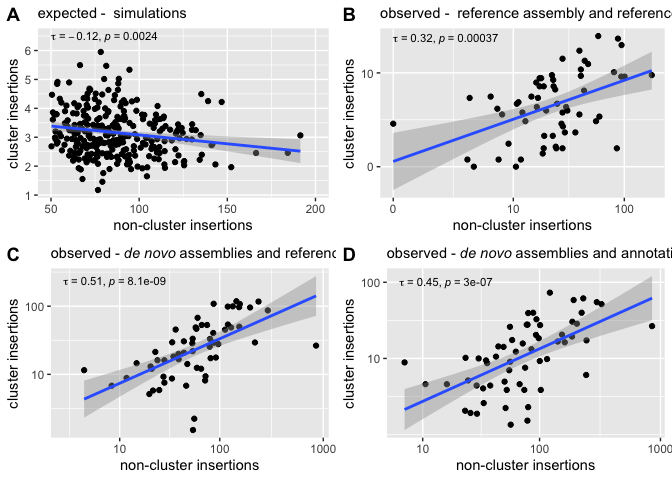
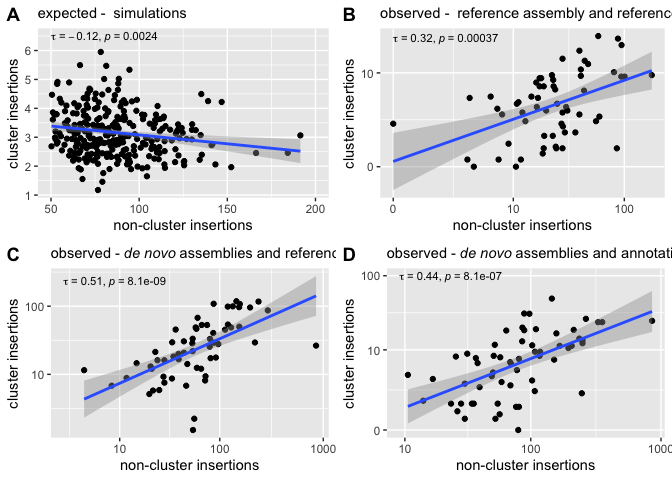
updated proTRAC annotations. Merging of neighboring clusters only takes into account original lengths but not new length that included the gaps inbetween

diff --git a/helper-scripts/merge_proTRAC_clusters.py b/helper-scripts/merge_proTRAC_clusters.py
@@ -21,7 +21,7 @@ parser.add_argument('--bed', type=argparse.FileType('r'), default=None,dest="bed
 parser.add_argument('--polyn', type=argparse.FileType('r'), default=None,dest="polyn", required=True, help="a polyN file from cusco")
 
 args=parser.parse_args()
-newcl=collections.defaultdict((lambda:collections.defaultdict(lambda:[int,str])))
+newcl=collections.defaultdict((lambda:collections.defaultdict(lambda:[int,str,int])))
 
 chromosomes=[]
 
@@ -33,26 +33,30 @@ for l in args.bed:
     start=int(m[1])
     end=int(m[2])
     cl=str(m[3])
+    olen=int(end-start)
     
     if chro not in chromosomes:
         newcl[chro][start][0]=end
         newcl[chro][start][1]=cl
-        
+        newcl[chro][start][2]=olen
+
         chromosomes.append(chro)
         
     else:
         for c,tmp in newcl.items():
             if c==chro:
                 last=max(tmp, key=tmp.get)
-                l1=tmp[last][0]-last
+                l1=int(tmp[last][2])
                 gap=start-tmp[last][0]
-                l2=end-start
-                if (l1+l2)>gap:
+                
+                if (l1+olen)>gap:
                     newcl[c][last][0]=end
+                    newcl[c][last][2]=int(l1+olen)
                     break
                 else:
                     newcl[chro][start][0]=end
                     newcl[chro][start][1]=cl
+                    newcl[chro][start][2]=olen
                     break
 
 gapcl=[]

diff --git a/helper-scripts/assembly_TE-abundance_3types.py b/helper-scripts/assembly_TE-abundance_3types.py
@@ -58,6 +58,7 @@ toitref=collections.defaultdict((lambda:collections.defaultdict(lambda:collectio
 reftopr=collections.defaultdict((lambda:collections.defaultdict(lambda:[str])))
 refabupr=collections.defaultdict((lambda:[0]))
 
+TEids=set()
 
 for k in args.rm:
     k=k.rstrip("\n").lstrip(" ")
@@ -90,7 +91,10 @@ for l in args.bed:
         if chro==c:
             for st,tmp2 in tmp.items():
                 for en,ch in tmp2.items():
+                    if ch[1] in TEids:
+                        continue
                     if (start <= int(st) <= end) or (start <= int(en) <= end):
+                        TEids.add(ch[1])
                         topr[cl][ch[1]][0]=ch[0]#first key: cl -for separate cluster outputs; "cluster" -for single
                         del rest[c][st][en]
                         del toitref[c][st][en]

diff --git a/rmd-scripts/main-histo.md b/rmd-scripts/main-histo.md
@@ -48,7 +48,7 @@ for i in *_cluster.bed;do n=${i%_cluster.bed};mkdir ${n};python /Users/filipwier
 ```
 
 ``` bash
-cd /Users/filipwierzbicki/Desktop/trap_model/analysis/abu/protrac/protrac_gapped_cluster_bed
+cd /Users/filipwierzbicki/Desktop/trap_model/analysis/abu/protrac/new-cluster_bed
 for i in *_cluster.bed;do n=${i%_cluster.bed};mkdir ${n};python /Users/filipwierzbicki/Desktop/trap_model/github/trapmodel/helper-scripts/assembly_TE-abundance_3types.py --clu $i --rm /Users/filipwierzbicki/Desktop/trap_model/analysis/abu/whole-genome/repeatmasker/${n}.fasta.out --output ${n}/ --sample ${n}_p0.05 --approach gapped_protrac --minlen 100 --maxdiv 10.0 ;done
 ```
 
@@ -386,11 +386,11 @@ popTE2<-ggplot(pt, aes(x=cluster, y=indsrel))+ geom_vline( xintercept =alq,col="
 
 ###proTRAC_p0.05 only
 
-t1<-read.table("/Users/filipwierzbicki/Desktop/trap_model/analysis/abu/protrac/protrac_gapped_cluster_bed/Canton-S_p0.05_gapped_protrac_summary.forR")
-t2<-read.table("/Users/filipwierzbicki/Desktop/trap_model/analysis/abu/protrac/protrac_gapped_cluster_bed/DGRP-732_p0.05_gapped_protrac_summary.forR")
-t3<-read.table("/Users/filipwierzbicki/Desktop/trap_model/analysis/abu/protrac/protrac_gapped_cluster_bed/Iso1_p0.05_gapped_protrac_summary.forR")
-t4<-read.table("/Users/filipwierzbicki/Desktop/trap_model/analysis/abu/protrac/protrac_gapped_cluster_bed/Oregon-R_p0.05_gapped_protrac_summary.forR")
-t5<-read.table("/Users/filipwierzbicki/Desktop/trap_model/analysis/abu/protrac/protrac_gapped_cluster_bed/Pi2_p0.05_gapped_protrac_summary.forR")
+t1<-read.table("/Users/filipwierzbicki/Desktop/trap_model/analysis/abu/protrac/new-cluster_bed/Canton-S_p0.05_gapped_protrac_summary.forR")
+t2<-read.table("/Users/filipwierzbicki/Desktop/trap_model/analysis/abu/protrac/new-cluster_bed/DGRP-732_p0.05_gapped_protrac_summary.forR")
+t3<-read.table("/Users/filipwierzbicki/Desktop/trap_model/analysis/abu/protrac/new-cluster_bed/Iso1_p0.05_gapped_protrac_summary.forR")
+t4<-read.table("/Users/filipwierzbicki/Desktop/trap_model/analysis/abu/protrac/new-cluster_bed/Oregon-R_p0.05_gapped_protrac_summary.forR")
+t5<-read.table("/Users/filipwierzbicki/Desktop/trap_model/analysis/abu/protrac/new-cluster_bed/Pi2_p0.05_gapped_protrac_summary.forR")
 
 t<-rbind(t1,t2,t3,t4,t5)
 
@@ -464,7 +464,7 @@ g<-ggarrange(simu, popTE2, real, proT,
 
     ## Warning: Removed 1 rows containing missing values (geom_bar).
 
-    ## Warning: Removed 30 rows containing missing values (position_stack).
+    ## Warning: Removed 13 rows containing missing values (position_stack).
 
     ## Warning: Removed 1 rows containing missing values (geom_bar).
 

diff --git a/rmd-scripts/main-cor.md b/rmd-scripts/main-cor.md
@@ -228,11 +228,11 @@ gC<-ggplot(cC,aes(x=noncluster,y=cluster))+geom_point()+stat_cor(cor.coef.name="
 
 ###proTRAC_p0.05 only 
 
-t1<-read.table("/Users/filipwierzbicki/Desktop/trap_model/analysis/abu/protrac/protrac_gapped_cluster_bed/Canton-S_p0.05_gapped_protrac_summary.forR")
-t2<-read.table("/Users/filipwierzbicki/Desktop/trap_model/analysis/abu/protrac/protrac_gapped_cluster_bed/DGRP-732_p0.05_gapped_protrac_summary.forR")
-t3<-read.table("/Users/filipwierzbicki/Desktop/trap_model/analysis/abu/protrac/protrac_gapped_cluster_bed/Iso1_p0.05_gapped_protrac_summary.forR")
-t4<-read.table("/Users/filipwierzbicki/Desktop/trap_model/analysis/abu/protrac/protrac_gapped_cluster_bed/Oregon-R_p0.05_gapped_protrac_summary.forR")
-t5<-read.table("/Users/filipwierzbicki/Desktop/trap_model/analysis/abu/protrac/protrac_gapped_cluster_bed/Pi2_p0.05_gapped_protrac_summary.forR")
+t1<-read.table("/Users/filipwierzbicki/Desktop/trap_model/analysis/abu/protrac/new-cluster_bed/Canton-S_p0.05_gapped_protrac_summary.forR")
+t2<-read.table("/Users/filipwierzbicki/Desktop/trap_model/analysis/abu/protrac/new-cluster_bed/DGRP-732_p0.05_gapped_protrac_summary.forR")
+t3<-read.table("/Users/filipwierzbicki/Desktop/trap_model/analysis/abu/protrac/new-cluster_bed/Iso1_p0.05_gapped_protrac_summary.forR")
+t4<-read.table("/Users/filipwierzbicki/Desktop/trap_model/analysis/abu/protrac/new-cluster_bed/Oregon-R_p0.05_gapped_protrac_summary.forR")
+t5<-read.table("/Users/filipwierzbicki/Desktop/trap_model/analysis/abu/protrac/new-cluster_bed/Pi2_p0.05_gapped_protrac_summary.forR")
 
 t<-rbind(t1,t2,t3,t4,t5)
 
@@ -290,7 +290,7 @@ cC$cluster<-log10(cC$avrcl+1)
 cC$noncluster<-log10(cC$avrrest+1)
 
 
-gP<-ggplot(cC,aes(x=noncluster,y=cluster))+geom_point()+stat_cor(cor.coef.name="tau",method = "kendall", label.x = 0.85, label.y = 2,size=3)+ 
+gP<-ggplot(cC,aes(x=noncluster,y=cluster))+geom_point()+stat_cor(cor.coef.name="tau",method = "kendall", label.x = 1, label.y = 2,size=3)+ 
   geom_smooth(method='lm', formula= y~x)+xlab("non-cluster insertions")+ylab("cluster insertions")+scale_x_continuous(breaks=c(0,1.041393,2.004321,3.000434),labels=c("0","10","100","1000"))+scale_y_continuous(breaks=c(0,1.041393,2.004321,3.000434),labels=c("0","10","100","1000"))+ggtitle("observed -*de novo* assemblies and annotations")+theme(plot.title = element_markdown(size=11))
 
 
